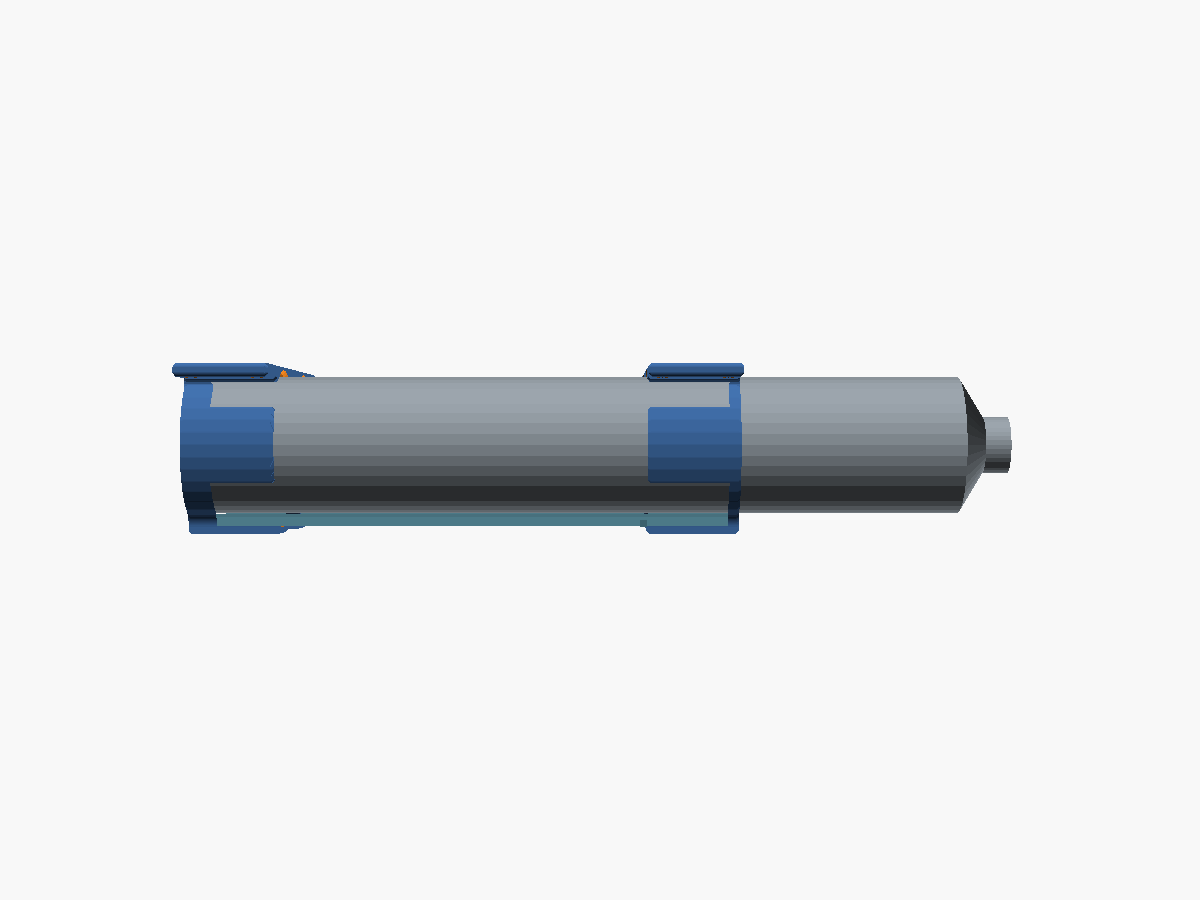
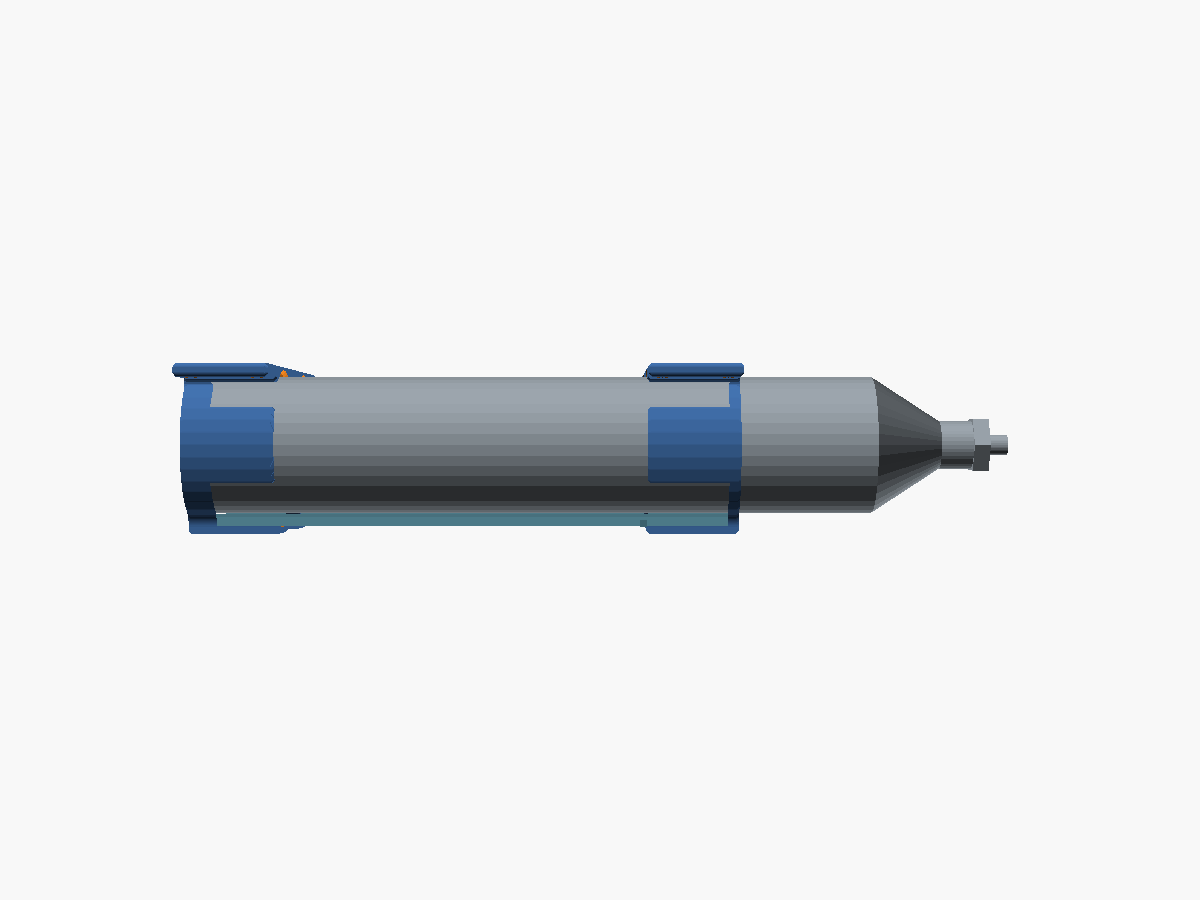
Illustrations : le rail visible, les bouteilles reconnaissables
La vue d'ensemble laissait croire qu'on imprimait de gros tubes, et aucune image
ne montrait le rail de guidage. Trois changements.

Le cylindre de visualisation reçoit un robinet — épaulement, col fileté,
collerette hexagonale, tige. Il devient reconnaissable à sa seule silhouette,
ce qui compte puisque le rendu CGAL ignore color().

Ajoute une vue de dessous quasi verticale et un paramètre `cylindres` pour
n'afficher que les pièces imprimées. Depuis cet angle, la paroi fine qui
provoquait le z-fighting est masquée : le rendu couleur devient utilisable, et
les rails s'y lisent en orange sur toute leur longueur.

Écarte aussi deux surfaces coïncidentes qui n'avaient pas lieu d'être : le
profil d'encoche s'arrêtait exactement sur la surface de l'alésage, et le petit
diamètre du chanfrein tombait pile dessus.

Corrige enfin quatre cotes périmées du README, qui n'avaient pas suivi les
corrections de la soirée : hauteur de plaque, jeu du rail, nom du talon,
options d'export. Et documente la paroi de 1,5 mm au-dessus des alésages, la
section la plus fine de la pièce, qu'aucune mesure n'avait relevée.

Changed region(s): [[0.7092, 0.4044, 0.8633, 0.5911]]

diff --git a/scripts/scad.py b/scripts/scad.py
@@ -31,13 +31,16 @@ ROOT = Path(__file__).resolve().parent.parent
 
 # Rotations camera d'OpenSCAD (rx, ry, rz) pour les vues normalisees.
 VIEWS = {
-    "iso":    (55, 0, 25),
-    "front":  (90, 0, 0),
-    "back":   (90, 0, 180),
-    "left":   (90, 0, 270),
-    "right":  (90, 0, 90),
-    "top":    (0, 0, 0),
-    "bottom": (180, 0, 0),
+    "iso":     (55, 0, 25),
+    "iso_bas": (125, 0, 25),   # vue de trois quarts par en dessous
+    "iso_dos": (55, 0, 205),   # trois quarts depuis l'autre azimut
+    "sous":    (158, 0, 20),   # presque à la verticale, par en dessous
+    "front":   (90, 0, 0),
+    "back":    (90, 0, 180),
+    "left":    (90, 0, 270),
+    "right":   (90, 0, 90),
+    "top":     (0, 0, 0),
+    "bottom":  (180, 0, 0),
 }
 DEFAULT_VIEWS = ["iso", "front", "right", "top"]
 IMGSIZE = "1200,900"

diff --git a/models/rack-sodastream/README.md b/models/rack-sodastream/README.md
@@ -1,19 +1,27 @@
 # rack-sodastream
 
-Rack à visser sous une planche en bois pour ranger deux cylindres de CO2 SodaStream
+Rack à visser sous une planche en bois pour ranger deux cylindres de CO2
 à l'horizontale, invisibles depuis le dessus.
 
 Les cylindres traversent deux plaques percées d'**alésages fermés à 360°** : tenue sur
 tout le pourtour, aucun roulement possible. Un rail de guidage relie les deux plaques
 pour que le nez du cylindre trouve tout seul le second alésage.
 
-| L'ensemble monté | La plaque avant |
-|---|---|
-| ![Rack monté, planche masquée](doc/montage.png) | ![Plaque avant](doc/plaque-avant.png) |
+![Rack monté, planche masquée](doc/montage.png)
 
-| Le rail de guidage | Coupe longitudinale |
-|---|---|
-| ![Rail de guidage](doc/rail.png) | ![Coupe dans l'axe du cylindre](doc/coupe-longitudinale.png) |
+*L'ensemble en place, planche masquée. Les deux bouteilles ne sont pas imprimées — elles
+sont dessinées avec leur robinet pour situer l'encombrement réel.*
+
+![Le montage vu de dessous](doc/dessous.png)
+
+*Le même montage vu de dessous. En **orange**, les deux rails de guidage qui relient les
+plaques et courent sous les bouteilles ; en **bleu**, les plaques ; en **gris**, les
+bouteilles, avec leur robinet. Seuls le bleu et l'orange sortent de l'imprimante.*
+
+| Plaque avant | Plaque arrière | Rail de guidage |
+|---|---|---|
+| ![Plaque avant](doc/plaque-avant.png) | ![Plaque arrière](doc/plaque-arriere.png) | ![Rail de guidage](doc/rail.png) |
+| alésages traversants | alésages borgnes, fond de butée | 2 exemplaires |
 
 ### Voir le modèle en 3D
 
@@ -37,8 +45,16 @@ python scripts/scad.py check rack-sodastream
 
 ## Cylindre visé
 
-Recharge universelle 425 g / 60 L, filetage TR21×4 : **Ø 60 mm × 356 mm**, 0,72 kg à
-vide, ~1,15 kg plein.
+**Cylindres universels** 425 g / 60 L, filetage TR21×4 : **Ø 60 mm × 356 mm**, 0,72 kg à
+vide, ~1,15 kg plein. Pas les cylindres de marque — les universels se rechargent chez
+n'importe quel distributeur de gaz.
+
+L'appareil, ici, est une gazéifieuse **Aarke**, qui accepte ce filetage. Le choix de ne
+pas passer par du matériel SodaStream est celui de l'auteur, pour des raisons
+géopolitiques.
+
+> Le répertoire s'appelle `rack-sodastream` parce que c'est sous ce nom qu'on cherche ce
+> genre de pièce. Le modèle, lui, ne dépend que du Ø 60 et du filetage TR21×4.
 
 **Le Ø 60 est mesuré au pied à coulisse**, pas relevé sur une fiche produit — les fiches
 se contredisent d'un vendeur à l'autre. La longueur de 356 mm, elle, vient encore d'une
@@ -58,15 +74,15 @@ plaques et rail suivent.
 | Rail de guidage | `guide` | 2 |
 
 ```bash
-python scripts/scad.py stl rack-sodastream -D PIECE=avant
+python scripts/scad.py stl rack-sodastream -D PIECE=avant --binaire
 ```
 
 ```bash
-python scripts/scad.py stl rack-sodastream -D PIECE=arriere
+python scripts/scad.py stl rack-sodastream -D PIECE=arriere --binaire
 ```
 
 ```bash
-python scripts/scad.py stl rack-sodastream -D PIECE=guide
+python scripts/scad.py stl rack-sodastream -D PIECE=guide --binaire
 ```
 
 ## Cotes principales
@@ -78,7 +94,7 @@ python scripts/scad.py stl rack-sodastream -D PIECE=guide
 | Profondeur de la plaque | 40 mm, bride et colliers confondus |
 | Entraxe des cylindres | 66 mm — les cercles extérieurs se recoupent, âme partagée de 3 mm |
 | Encombrement d'une plaque | 167 × 40 mm |
-| Hauteur sous la planche | 72,5 mm |
+| Hauteur sous la planche | 73,5 mm |
 | Écart entre les deux plaques | 200 mm (`ecart_plaques`) |
 | Rail de guidage | 236 mm, 20 mm en fond, 15 mm au débouché, 4,77 mm d'épaisseur |
 
@@ -124,10 +140,10 @@ et la charge totale reste de 2,3 kg pour huit vis.
 ## Le rail de guidage est en queue d'aronde
 
 L'encoche s'évase vers le bas : **20 mm en fond, 15 mm au débouché dans l'alésage**. Le
-rail, copie du profil réduite de 0,25 mm, y est donc captif en hauteur comme
+rail, copie du profil réduite de 0,3 mm, y est donc captif en hauteur comme
 latéralement — pour s'échapper vers l'alésage il devrait franchir une ouverture de 15 mm
-en étant large de 19. Il ne peut que coulisser axialement, ce que la butée arrière et le
-crochet avant bloquent.
+en étant large de 19. Il ne peut que coulisser axialement, ce que la butée du fond et le
+talon d'arrêt bloquent.
 
 Un simple logement ouvert ne tiendrait pas : rien n'empêcherait le rail de se soulever et
 de taper contre le cylindre. Un tunnel entièrement fermé aurait tenu le rail, mais
@@ -158,6 +174,12 @@ la butée du fond.
 Elle s'évase **latéralement**, à partir du même fond plat que le rail, et ne descend pas
 en dessous. Un talon qui descendrait aurait obligé à imprimer les 236 mm du rail sur
 support.
+
+![Coupe dans l'axe du cylindre](doc/coupe-longitudinale.png)
+
+*Coupe longitudinale du montage, dans l'axe d'un cylindre. Le rail court sous la
+bouteille d'une plaque à l'autre ; le talon est la petite patte qui remonte juste
+derrière la plaque d'accès.*
 
 Un talon placé au bout du rail, en appui sur la face *avant*, n'aurait rien bloqué
 d'utile : il n'aurait arrêté que le recul, déjà limité à 1 mm par la butée, en laissant
@@ -204,6 +226,11 @@ coincerait. Marqués à travers le rack monté, ils sont justes par construction
 
 ## Contraintes à connaître avant de modifier
 
+- **La bride ne fait que 1,5 mm d'épaisseur au-dessus de chaque alésage.** Le chanfrein
+  d'entrée, de rayon 33 mm, y remonte jusqu'à −1,5 mm alors que la bride s'étend de 0 à
+  −6. C'est la section la plus fine de la plaque. Elle ne reprend aucun effort — la
+  charge descend par les colliers — mais toute augmentation de `chanfrein` la réduit
+  encore.
 - **`ecart_plaques` ne peut pas dépasser ~213 mm** sur un plateau de 256 mm : la longueur
   du rail vaut `ecart_plaques + 40 − 3`, et au-delà il faudrait l'imprimer en diagonale
   ou le couper en deux.

diff --git a/work-log/2026-09-20-quatre-verifications.md b/work-log/2026-09-20-quatre-verifications.md
@@ -6,8 +6,15 @@ Une journée passée à concevoir une pièce imprimable en 3D avec un assistant,
 qu'elle apprend sur la répartition du travail entre une machine qui calcule vite et un
 humain qui a déjà manipulé des objets.
 
-L'objet : un rack à visser sous une planche en bois, pour ranger deux cylindres de CO2
-SodaStream à l'horizontale, invisibles depuis le dessus.
+L'objet : un rack à visser sous une planche en bois, pour ranger deux cylindres de CO2 à
+l'horizontale, invisibles depuis le dessus.
+
+Précision qui a son importance pour les cotes : il s'agit de **cylindres universels**
+425 g au filetage TR21×4, pas de cylindres de marque — ils se rechargent chez n'importe
+quel distributeur de gaz. L'appareil est une gazéifieuse **Aarke**, qui accepte ce
+filetage ; ne pas passer par du matériel SodaStream est un choix assumé, pour des raisons
+géopolitiques. Les deux familles de cylindres n'ont d'ailleurs pas les mêmes dimensions,
+et c'est la première chose qu'il a fallu trancher.
 
 ---
 
